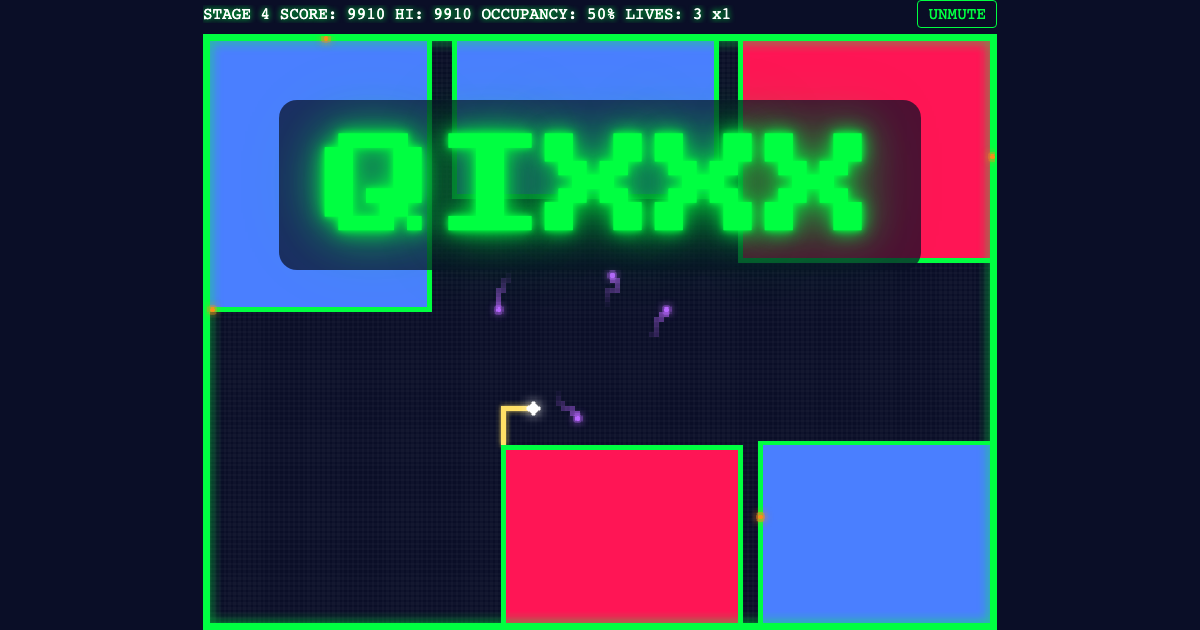
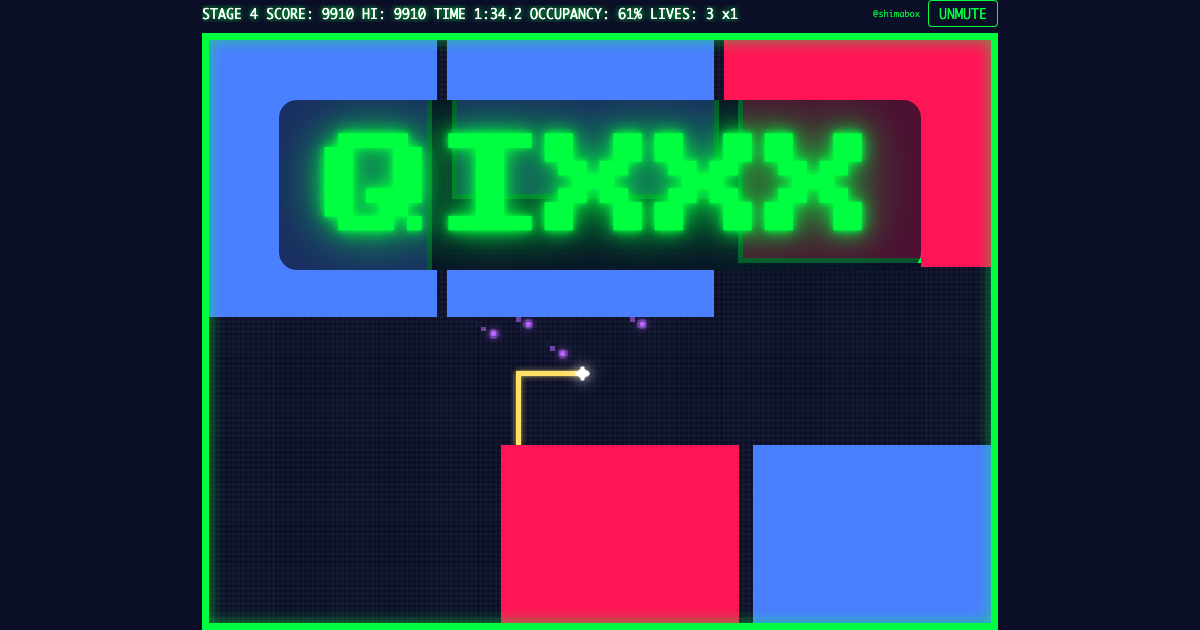
chore: OGイメージを3分制限モード(v0.4.0)の現行HUD仕様に更新
TIMEカウントダウンのない旧HUD(STAGE/SCORE/HI/OCCUPANCY/LIVES)のままだった
public/og-image.pngを、TIME表示を含む現行HUDのプレイ中盤面に差し替え。
既存のQIXXXロゴプレートは切り出して同位置に合成し、見た目は維持した。
og:descriptionの冒頭に「1プレイ3分。」を追加し、og:imageにキャッシュ
バスター(?v=040)を付与してSNS側の画像キャッシュ対策とした。

diff --git a/index.html b/index.html
@@ -7,12 +7,12 @@
     <link rel="apple-touch-icon" href="/apple-touch-icon.png" />
     <meta name="theme-color" content="#0a0e27" />
     <title>QIXXX</title>
-    <meta name="description" content="線を引いて陣地を切り取る、ネオン風の陣取りアクションゲーム。ブラウザで無料、PC・スマホ対応。" />
+    <meta name="description" content="1プレイ3分。線を引いて陣地を切り取る、ネオン風の陣取りアクションゲーム。ブラウザで無料、PC・スマホ対応。" />
     <meta property="og:type" content="website" />
     <meta property="og:title" content="QIXXX" />
-    <meta property="og:description" content="線を引いて陣地を切り取る、ネオン風の陣取りアクションゲーム。ブラウザで無料、PC・スマホ対応。" />
+    <meta property="og:description" content="1プレイ3分。線を引いて陣地を切り取る、ネオン風の陣取りアクションゲーム。ブラウザで無料、PC・スマホ対応。" />
     <meta property="og:url" content="https://qixxx.orukubami.sh/" />
-    <meta property="og:image" content="https://qixxx.orukubami.sh/og-image.png" />
+    <meta property="og:image" content="https://qixxx.orukubami.sh/og-image.png?v=040" />
     <meta name="twitter:card" content="summary_large_image" />
     <style>
       * {
